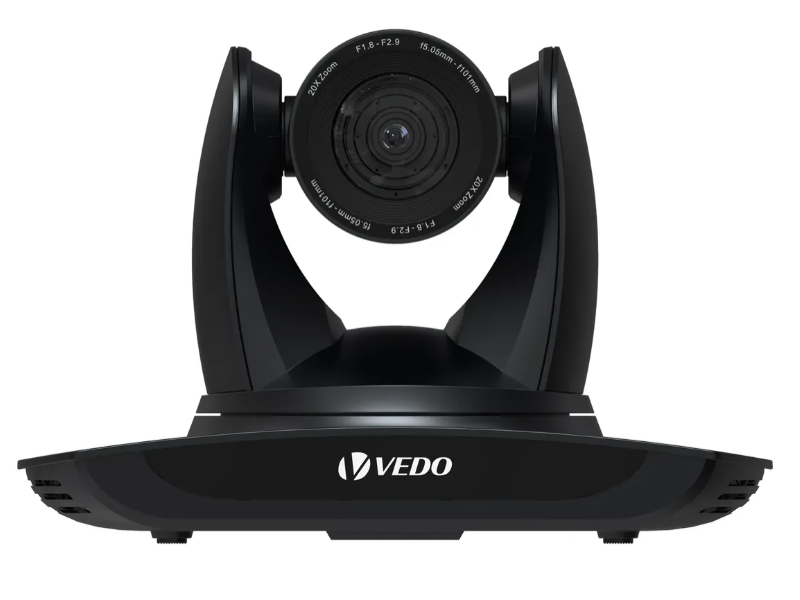
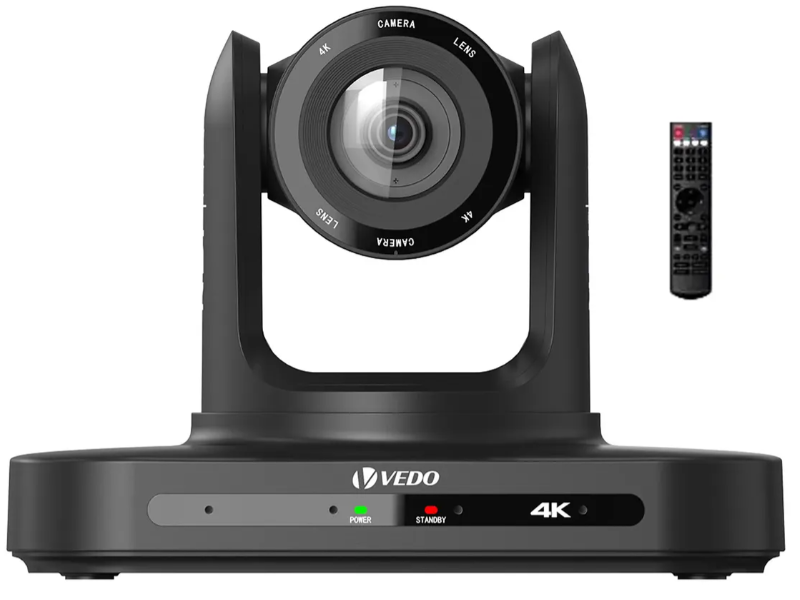
MOD

diff --git a/index.html b/index.html
@@ -136,12 +136,12 @@
       <div class="acc-body"><div class="acc-cols"><div class="acc-col-img"><img src="img/img-11.png" alt="Mesa de som profissional 8 canais USB"></div><div class="acc-col-txt"><p>Mesa de som (console misturador) profissional de 8 canais, com entradas de microfone, interface USB pra gravar/reproduzir áudio no computador e processador de efeitos embutido. É onde o operador equilibra os volumes das fontes (microfones, players, retornos), aplica efeitos e monta a mixagem que vai ao ar. Modelo genérico de entrada (mais simples e barato que uma Yamaha MG). <b>Atenção:</b> 8 canais no total não quer dizer 8 entradas de microfone, esse tipo de mesa costuma ter 3 a 4 pré-amps de mic mais canais de linha estéreo; confira se cobre os 6 microfones Dylan do set. Preço: R$ 561,24 (Mercado Livre, jun/2026).</p></div></div></div>
     </div>
     <div class="acc-row">
-      <div class="acc-head" onclick="toggleAcc(this)"><span class="acc-title">3x Câmera PTZ VEDO 4K 20x Zoom AI / NDI</span><a class="acc-ref" href="https://www.mercadolivre.com.br/vedo-camera-ptz-4k-20xzoom-ai-ndi-pere-igrejes-eaulas--preto/up/MLBU3976075142" target="_blank" rel="noopener" onclick="event.stopPropagation()">ver detalhe ↗</a><span class="acc-price"><span class="rs">R$</span><span class="amt">7.445,00</span></span><button class="acc-btn">+</button></div>
-      <div class="acc-body"><div class="acc-cols"><div class="acc-col-img"><img src="img/img-20.png" alt="Câmera PTZ VEDO 4K 20x NDI"></div><div class="acc-col-txt"><p>Câmera robótica PTZ (pan, tilt e zoom) 4K com zoom óptico 20x, rastreamento automático por IA que mantém o apresentador enquadrado e saída por NDI (vídeo de baixa latência pela rede), além de HDMI/SDI/USB conforme o modelo. Marca VEDO, voltada a igrejas, aulas e transmissões ao vivo. Três unidades cobrem os ângulos principais do set (frontal, lateral e geral), controladas à distância sem operador segurando a câmera. Preço: R$ 2.481,60 por unidade (× 3 ≈ R$ 7.445, jun/2026).</p></div></div></div>
+      <div class="acc-head" onclick="toggleAcc(this)"><span class="acc-title">3x Câmera PTZ VEDO 4K 20x Zoom AI / NDI</span><a class="acc-ref" href="https://www.mercadolivre.com.br/up/MLBU3935701838?pdp_filters=item_id:MLB6685130756" target="_blank" rel="noopener" onclick="event.stopPropagation()">ver detalhe ↗</a><span class="acc-price"><span class="rs">R$</span><span class="amt">6.442,53</span></span><button class="acc-btn">+</button></div>
+      <div class="acc-body"><div class="acc-cols"><div class="acc-col-img"><img src="img/img-20.png" alt="Câmera PTZ VEDO 4K 20x NDI"></div><div class="acc-col-txt"><p>Câmera robótica PTZ (pan, tilt e zoom) 4K com zoom óptico 20x, rastreamento automático por IA que mantém o apresentador enquadrado e saída por NDI (vídeo de baixa latência pela rede), além de HDMI/SDI/USB conforme o modelo. Marca VEDO, voltada a igrejas, aulas e transmissões ao vivo. Três unidades cobrem os ângulos principais do set (frontal, lateral e geral), controladas à distância sem operador segurando a câmera. Preço: R$ 2.147,51 por unidade (× 3 = R$ 6.442,53, Mercado Livre, jun/2026).</p></div></div></div>
     </div>
     <div class="acc-row">
-      <div class="acc-head" onclick="toggleAcc(this)"><span class="acc-title">6x Microfone Dylan DM-5 (podcast, XLR dinâmico)</span><a class="acc-ref" href="https://www.mercadolivre.com.br/microfone-para-podcast-dylan-dm-5-ajustavel-e-versatil-cor-preto/p/MLB45672755" target="_blank" rel="noopener" onclick="event.stopPropagation()">ver detalhe ↗</a><span class="acc-price"><span class="rs">R$</span><span class="amt">3.600,00</span></span><button class="acc-btn">+</button></div>
-      <div class="acc-body"><div class="acc-cols"><div class="acc-col-img"><img src="img/img-26.png" alt="Microfone Dylan DM-5 para podcast"></div><div class="acc-col-txt"><p>Microfone dinâmico cardioide com cabo (conexão XLR balanceada), feito pra podcast e streaming, acompanha suporte de mesa. Por ser dinâmico e cardioide, foca na voz e rejeita boa parte do ruído da sala. A conexão XLR entra direto nos canais de microfone da MG12XU, um por apresentador. Seis unidades cobrem as 6 posições do set, uma por pré-amp de microfone da MG12XU (que tem exatamente 6, ou seja, fica no limite, sem canal de mic sobrando pra adicionar outro microfone depois). É um modelo de entrada (mais simples que um Shure SM7B ou Rode Procaster). Preço: R$ 599,99 por unidade (× 6 ≈ R$ 3.600, jun/2026).</p></div></div></div>
+      <div class="acc-head" onclick="toggleAcc(this)"><span class="acc-title">6x Microfone dinâmico Fifine K688 (USB + XLR, podcast)</span><a class="acc-ref" href="https://www.mercadolivre.com.br/up/MLBU3982323487?pdp_filters=item_id:MLB6824064006" target="_blank" rel="noopener" onclick="event.stopPropagation()">ver detalhe ↗</a><span class="acc-price"><span class="rs">R$</span><span class="amt">2.814,00</span></span><button class="acc-btn">+</button></div>
+      <div class="acc-body"><div class="acc-cols"><div class="acc-col-img"><img src="img/img-26.png" alt="Microfone dinâmico Fifine K688"></div><div class="acc-col-txt"><p>Microfone dinâmico Fifine K688, cardioide, com saída dupla USB e XLR, feito pra podcast, gravação e streaming. Por ser dinâmico e cardioide, foca na voz e rejeita boa parte do ruído da sala. A saída dupla dá flexibilidade: vai por XLR pra mesa de som ou direto por USB no notebook, o que ajuda quando a mesa não tem canais de microfone suficientes. São 6 unidades, uma por apresentador/posição do set. Modelo de entrada (mais simples que um Shure SM7B ou Rode Procaster). Preço: R$ 469,00 por unidade (× 6 = R$ 2.814,00, Mercado Livre, jun/2026).</p></div></div></div>
     </div>
     <div class="acc-row">
       <div class="acc-head" onclick="toggleAcc(this)"><span class="acc-title">Caixa de som JBL Flip 2 Essential (Bluetooth IPX7)</span><a class="acc-ref" href="https://www.mercadolivre.com.br/caixa-de-som-jbl-flip-2-essential-portatil-bluetooth-ipx7-cor-preto/p/MLB22511905" target="_blank" rel="noopener" onclick="event.stopPropagation()">ver detalhe ↗</a><span class="acc-price"><span class="rs">R$</span><span class="amt">566,10</span></span><button class="acc-btn">+</button></div>
@@ -164,7 +164,7 @@
       <div class="acc-body"><div class="acc-cols"><div class="acc-col-img"><img src="img/img-28.png" alt="Fone AKG BlackShark K52"></div><div class="acc-col-txt"><p>Fone over-ear fechado AKG BlackShark K52, de monitoração, com bom isolamento passivo. Serve pra equipe de áudio e operadores ouvirem com precisão o que está sendo captado e transmitido: por ser fechado, isola o ruído do ambiente e não deixa o som vazar pros microfones. São 2 unidades (uma por operador). É um modelo de entrada, mais barato que o ATH-M50x. Preço: R$ 254 por unidade (× 2 = R$ 508, Mercado Livre, jun/2026).</p></div></div></div>
     </div>
   </div>
-  <div class="note" style="text-align:right;"><b>Total dos itens selecionados: R$ 28.525,09</b></div>
+  <div class="note" style="text-align:right;"><b>Total dos itens selecionados: R$ 26.736,62</b></div>
 
   <footer>
     Orçamento de referência gerado em jun/2026. Preços sujeitos a confirmação com fornecedores. Os links levam às lojas/páginas onde os valores foram observados; estoque e preço podem variar na data da compra.